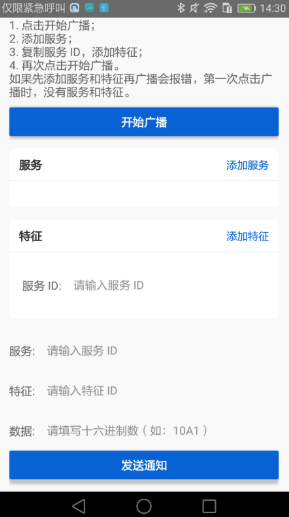
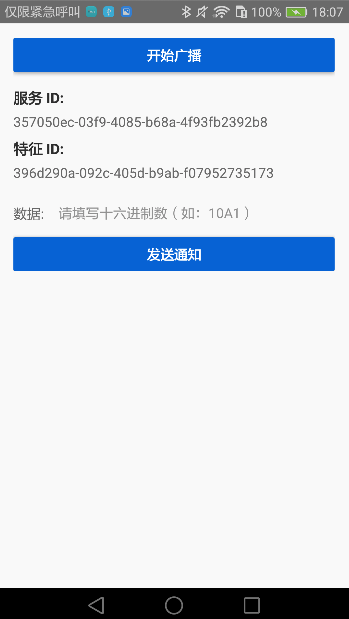
更新 README.md

diff --git a/README.md b/README.md
@@ -22,9 +22,11 @@ $ react-native run-ios # or react-native run-android
 
 ### 外设
 
-打开外设程序，参考使用说明进行操作。
+外设程序基于 [react-native-ble-peripheral](https://github.com/himelbrand/react-native-ble-peripheral) 实现。
 
-外设程序基于 [react-native-ble-peripheral](https://github.com/himelbrand/react-native-ble-peripheral) 实现。按照文档上的说明，应该是先添加服务和特征，然后再开始广播。但是，我在实际使用的过程中，发现这样操作会报错，如果先开始广播则不会。因此，需要先开始广播，然后添加服务和特征，最后再进行一次广播。
+打开应用后，会添加一个服务和特征，点击“开始广播”按钮后，广播蓝牙信息，设备就可以被搜索到。填写特征数据，点击发送通知按钮可以发送数据给中心设备。
+
+备注：广播数据有大小限制（最大 31 字节），如果超过限制则无法正常广播。参考：https://developer.android.com/reference/android/bluetooth/le/AdvertiseCallback
 
 <div align=center>
 <img src="screenshot/peripheral.png">
